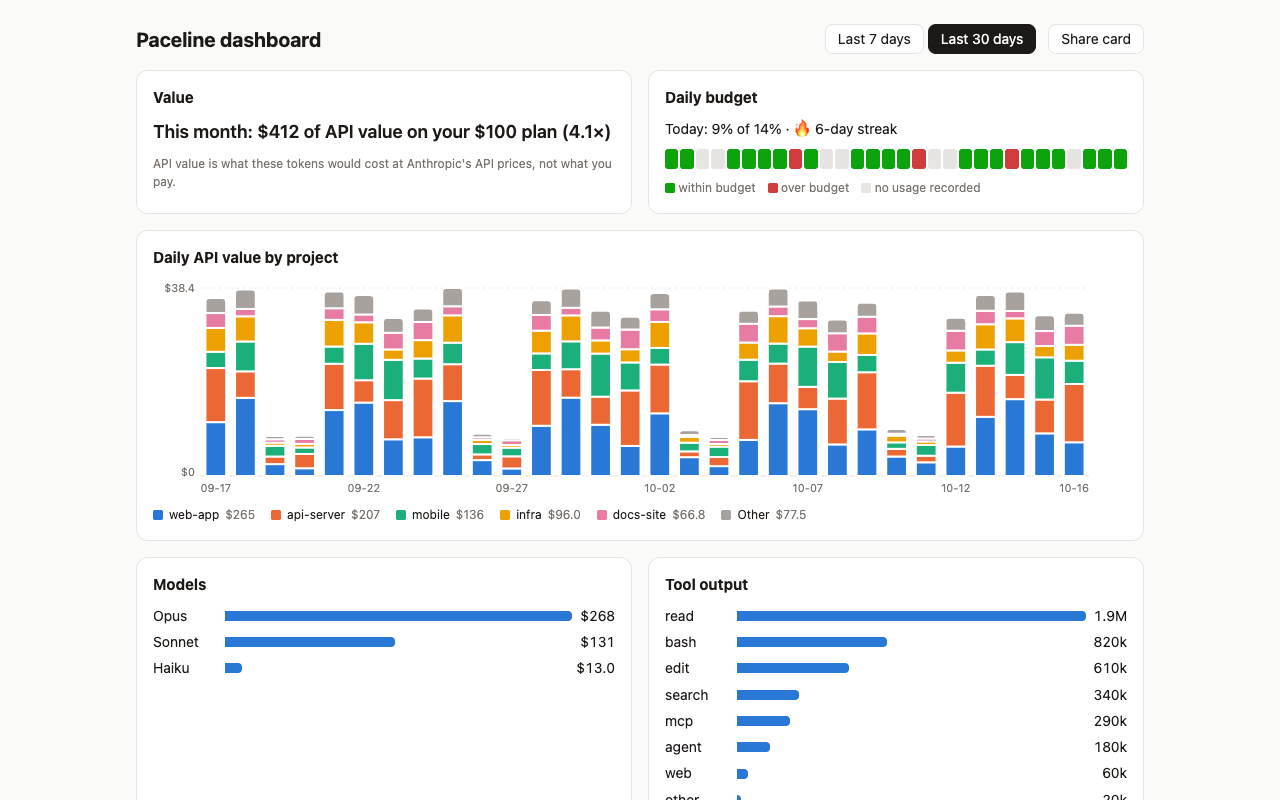
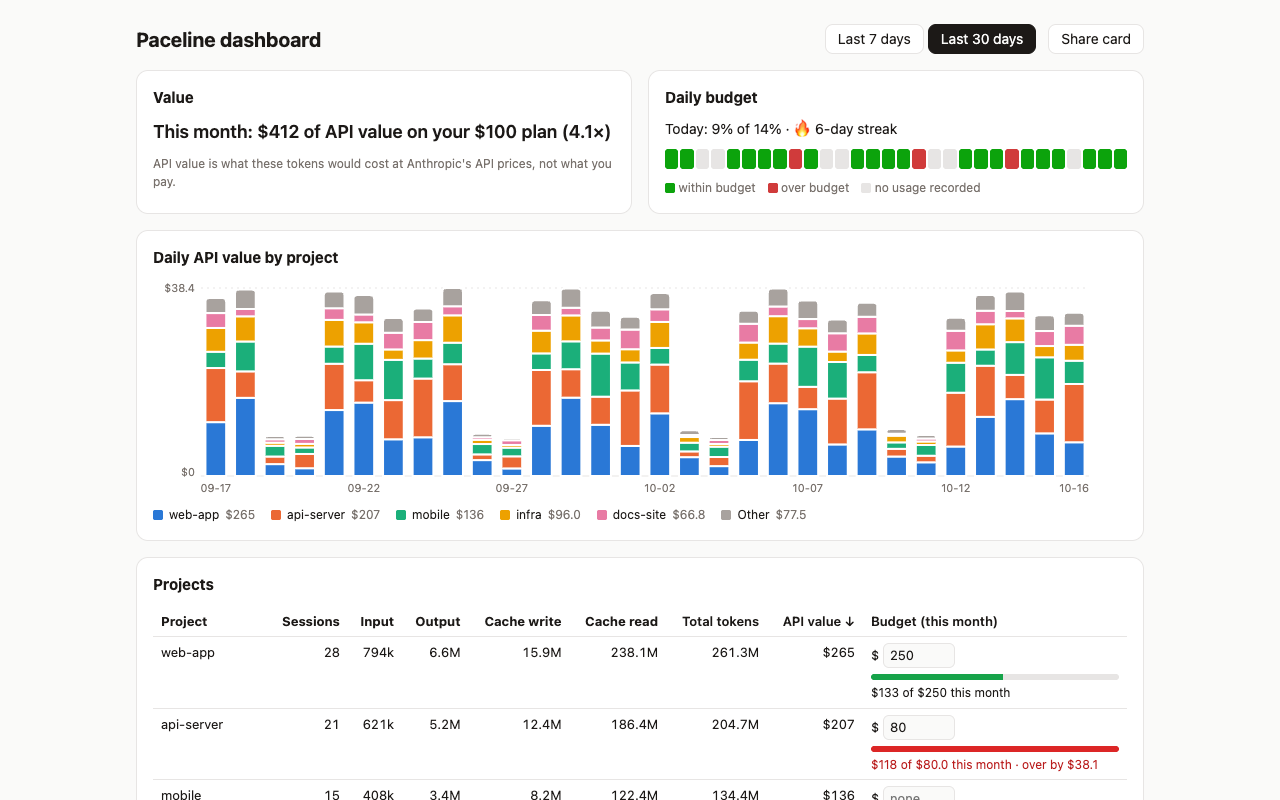
test(extension): e2e and screenshots for the Projects table

diff --git a/packages/extension/e2e/extension.spec.ts b/packages/extension/e2e/extension.spec.ts
@@ -4,7 +4,7 @@ import { join } from 'node:path';
 import { fileURLToPath } from 'node:url';
 import AxeBuilder from '@axe-core/playwright';
 import { chromium, expect, test, type BrowserContext, type Worker } from '@playwright/test';
-import { makeDashboard, makeDashboardSession, makeHiddenCosts, makeSnapshot, makeSummary, makeTip } from '@paceline/shared/fixtures';
+import { makeDashboard, makeDashboardProject, makeDashboardSession, makeHiddenCosts, makeSnapshot, makeSummary, makeTip } from '@paceline/shared/fixtures';
 
 const here = fileURLToPath(new URL('.', import.meta.url));
 const EXT_DIR = join(here, '..', '.output-test', 'chrome-mv3');
@@ -35,6 +35,7 @@ test.beforeAll(async () => {
         days: [{ day: '2026-10-12', costUsd: 3.2, sessions: 1, byProject: { 'my-app': 3.2 } }],
         byModel: { 'claude-opus-5-5': 3.2 },
         sessions: [makeDashboardSession({ costUsd: 3.2 })],
+        projects: [makeDashboardProject()],
       }),
     }),
   );
@@ -115,7 +116,7 @@ test('dashboard renders the helper data', async () => {
   const page = await context.newPage();
   await page.goto(`chrome-extension://${DEV_EXTENSION_ID}/dashboard.html`);
   await expect(page.getByText('This month: $412 of API value on your $100 plan (4.1×)')).toBeVisible();
-  await expect(page.getByRole('cell', { name: 'my-app' })).toBeVisible();
+  await expect(page.getByRole('cell', { name: 'my-app' }).first()).toBeVisible();
   await expect(page.locator('.legend')).toContainText('my-app');
 });
 
@@ -165,3 +166,19 @@ for (const [path, ready] of [
     expect(serious).toEqual([]);
   });
 }
+
+test('dashboard lists projects and saves a budget', async () => {
+  const sw = await worker();
+  const budget = () =>
+    sw.evaluate(async () => ((await (globalThis as any).chrome.storage.local.get('settings')).settings?.projectBudgets?.['my-app'] ?? null) as number | null);
+  const page = await context.newPage();
+  await page.goto(`chrome-extension://${DEV_EXTENSION_ID}/dashboard.html`);
+  const projects = page.locator('.projects-table');
+  await expect(projects.getByRole('cell', { name: 'my-app' })).toBeVisible();
+  await expect(projects.getByRole('cell', { name: '2M', exact: true })).toBeVisible();
+  const input = page.getByRole('spinbutton', { name: 'Monthly budget for my-app, in dollars' });
+  await input.fill('100');
+  await input.blur();
+  await expect.poll(budget).toBe(100);
+  await expect(projects).toContainText('$12.0 of $100 this month');
+});

diff --git a/packages/extension/screenshots/fake-data.ts b/packages/extension/screenshots/fake-data.ts
@@ -158,6 +158,23 @@ const sessions: DashboardSession[] = [
   row({ projectName: 'docs-site', daysBack: 1, durationMin: 25, turns: 18, costUsd: 1.12, score: 96, grade: 'A' }),
 ];
 
+// Per project: the range's cost from the daily data, tokens roughly in proportion (cache reads dominate),
+// and this month's spend from the days of the current month.
+const monthStart = dayKey(new Date(new Date(now).getFullYear(), new Date(now).getMonth(), 1, 12).getTime());
+const projectRows = projects.map((name, k) => {
+  const costUsd = days.reduce((s, d) => s + (d.byProject[name] ?? 0), 0);
+  const monthToDateUsd = days.filter((d) => d.day >= monthStart).reduce((s, d) => s + (d.byProject[name] ?? 0), 0);
+  return {
+    name,
+    sessions: Math.max(1, Math.round(28 * weights[k]!)),
+    costUsd,
+    tokens: { input: Math.round(costUsd * 3_000), output: Math.round(costUsd * 25_000), cacheRead: Math.round(costUsd * 900_000), cacheWrite: Math.round(costUsd * 60_000) },
+    monthToDateUsd,
+  };
+});
+/** Two budgets, one comfortably under and one over, so the screenshot shows both. */
+export const projectBudgets: Record<string, number> = { 'web-app': 250, 'api-server': 80 };
+
 const dashboard = makeDashboard({
   range: '30d',
   days,
@@ -166,6 +183,7 @@ const dashboard = makeDashboard({
   heatmap,
   monthToDateUsd: 412,
   sessions,
+  projects: projectRows,
 });
 
 export const snapshot = {
@@ -230,8 +248,8 @@ export async function launchWithFakeHelper(opts: { deviceScaleFactor?: number } 
   // Let the first refresh finish, then seed the history it would have built up over time.
   await worker.evaluate(() => new Promise((r) => setTimeout(r, 1_500)));
   await worker.evaluate(
-    ([r, d]) => (globalThis as unknown as { chrome: { storage: { local: { set(v: object): Promise<void> } } } }).chrome.storage.local.set({ readings: r, dailyUsage: d }),
-    [readings(), dailyUsage] as const,
+    ([r, d, b]) => (globalThis as unknown as { chrome: { storage: { local: { set(v: object): Promise<void> } } } }).chrome.storage.local.set({ readings: r, dailyUsage: d, settings: { projectBudgets: b } }),
+    [readings(), dailyUsage, projectBudgets] as const,
   );
   return { context, extensionId: EXTENSION_ID };
 }

diff --git a/packages/extension/screenshots/store.spec.ts b/packages/extension/screenshots/store.spec.ts
@@ -66,7 +66,7 @@ test('screenshot 2: dashboard', async () => {
   await page.setViewportSize({ width: 1280, height: 800 });
   await page.goto(`chrome-extension://${extensionId}/dashboard.html`);
   await page.getByRole('tab', { name: 'Last 30 days' }).click();
-  await page.getByText('This month').waitFor();
+  await page.locator('.value-card .value').waitFor();
   await save(page, 'screenshot-2-dashboard.png', { width: 1280, height: 800 });
   await page.close();
 });

diff --git a/packages/extension/screenshots/readme.spec.ts b/packages/extension/screenshots/readme.spec.ts
@@ -33,6 +33,6 @@ test('dashboard', async () => {
   await page.setViewportSize({ width: 1100, height: 900 });
   await page.goto(`chrome-extension://${extensionId}/dashboard.html`);
   await page.getByRole('tab', { name: 'Last 30 days' }).click();
-  await page.getByText('This month').waitFor();
+  await page.locator('.value-card .value').waitFor();
   await page.screenshot({ path: join(OUT_DIR, 'dashboard.png'), fullPage: true });
 });
